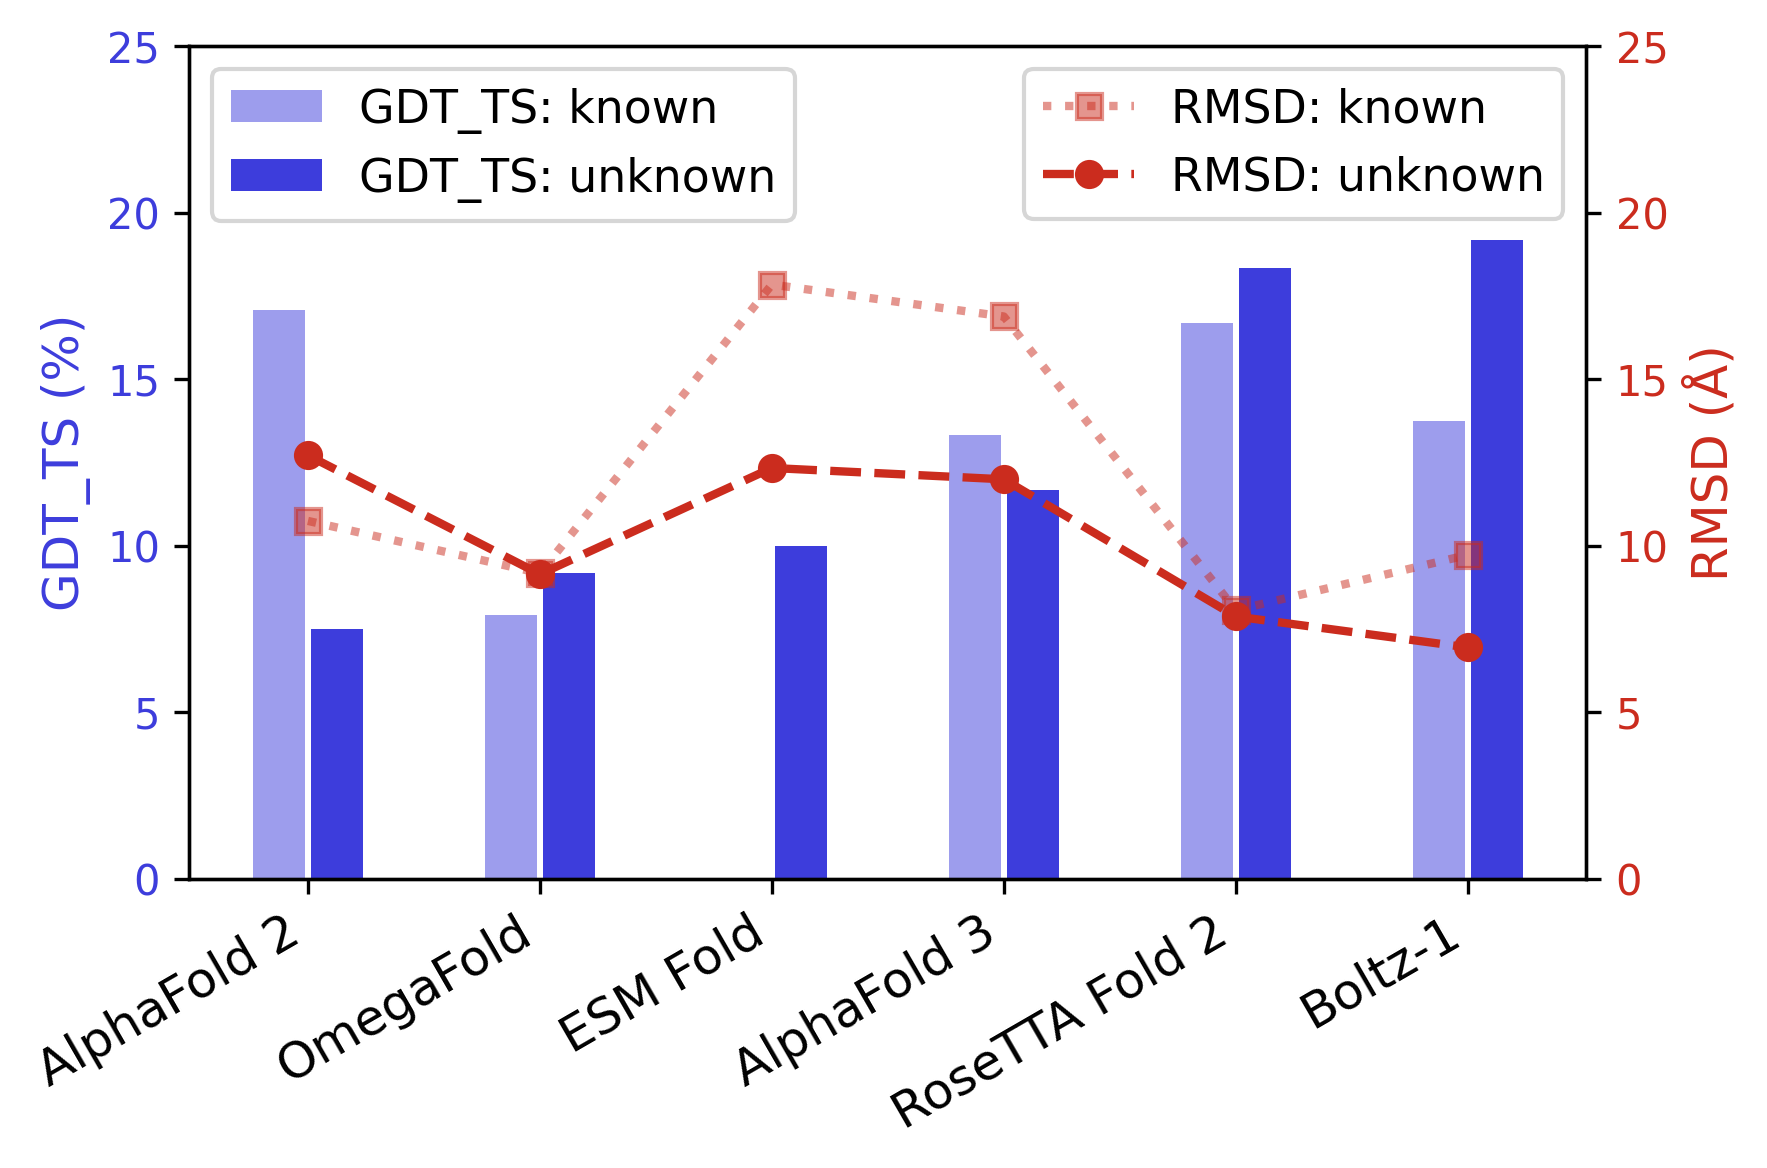
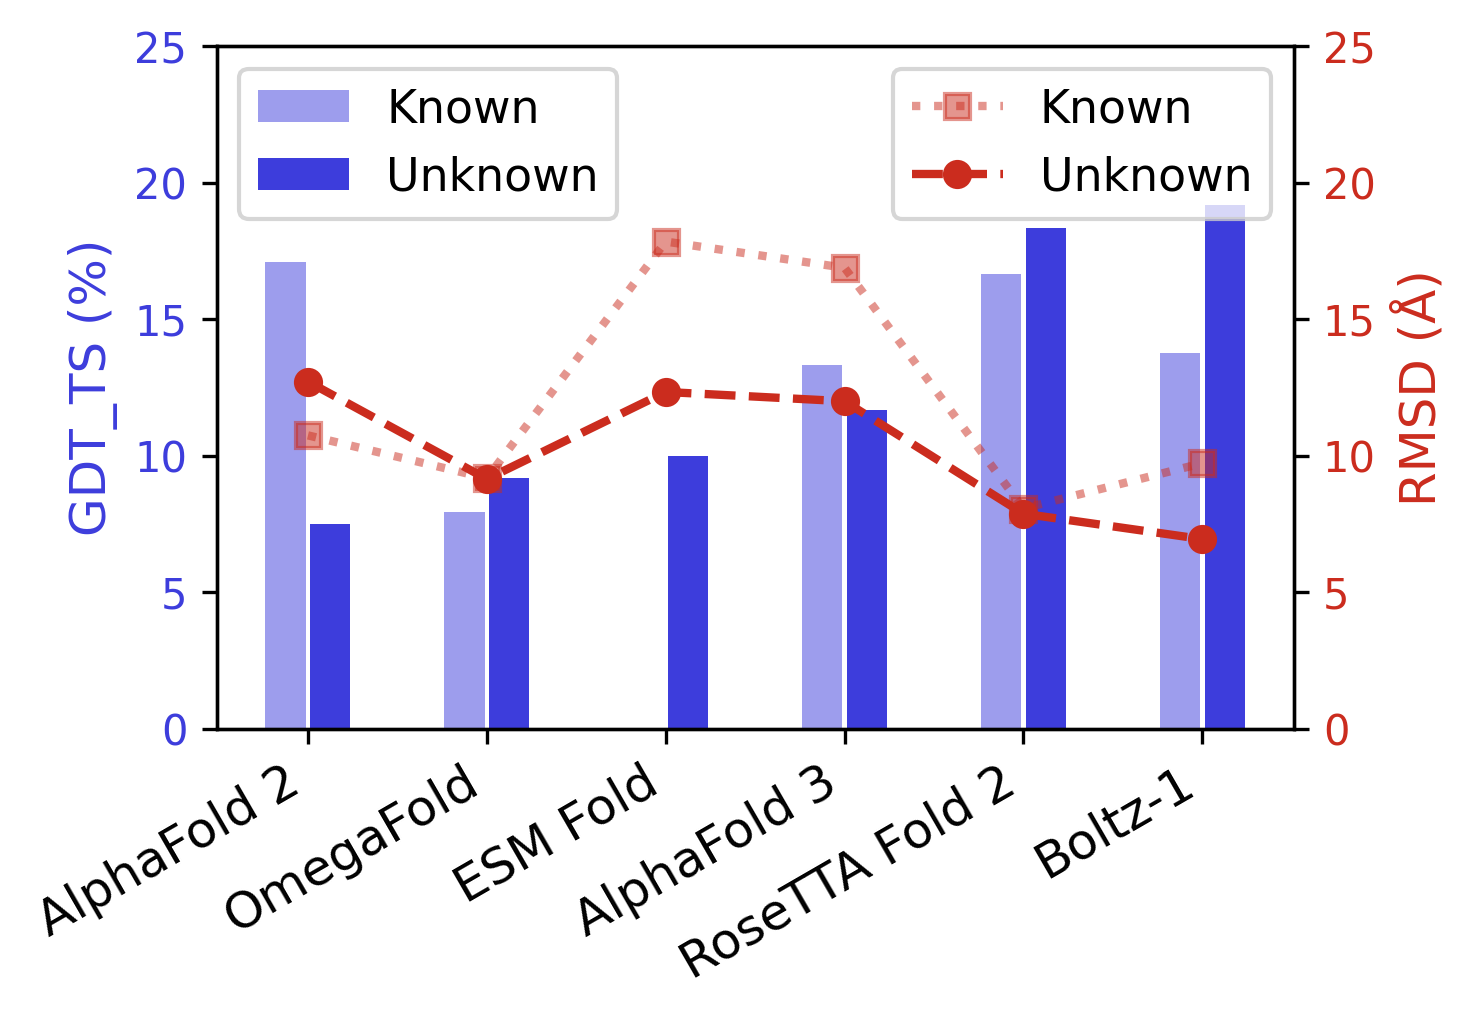
Run xp results

Changed region(s): [[0.0, 0.0305, 0.998, 0.9745], [0.5925, 0.3045, 0.6237, 0.3654], [0.3742, 0.3045, 0.4054, 0.3654]]

diff --git a/plot_results.py b/plot_results.py
@@ -43,7 +43,7 @@ methods = [model_names.get(m, m) for m in methods]
 args = parse_args()
 
 # Plotting
-fig, ax1 = plt.subplots(figsize=(6, 4))
+fig, ax1 = plt.subplots(figsize=(5, 3.5))
 
 x = np.arange(len(methods))
 width = 0.25 # Thinner bars
@@ -62,9 +62,9 @@ if args.gdt:
     rmsd_no = rmsd_no[sort_idx]
 
     # Plot GDT_TS bars
-    rects2 = ax1.bar(x - width/2, gdt_known, 0.9*width, label='GDT_TS: known', 
+    rects2 = ax1.bar(x - width/2, gdt_known, 0.9*width, label='Known', 
                      color=BAR_COLOR, alpha=0.5)
-    rects1 = ax1.bar(x + width/2, gdt_no, 0.9*width, label='GDT_TS: unknown', 
+    rects1 = ax1.bar(x + width/2, gdt_no, 0.9*width, label='Unknown', 
                      color=BAR_COLOR, alpha=1.0)
     
     # Configure first axis (GDT_TS)
@@ -97,9 +97,9 @@ if args.rmsd:
         filename = 'results_rmsd.png'
 
     ax2.plot(x, rmsd_known, color=LINE_COLOR, linestyle='dotted', linewidth=2, marker='s',
-             label='RMSD: known', alpha=0.5)
+             label='Known', alpha=0.5)
     ax2.plot(x, rmsd_no, color=LINE_COLOR, linestyle='dashed', linewidth=2, marker='o',
-             label='RMSD: unknown', alpha=1.0)
+             label='Unknown', alpha=1.0)
     ax2.set_ylabel('RMSD (Å)', color=LINE_COLOR, fontsize=12)
     ax2.tick_params(axis='y', labelcolor=LINE_COLOR)
     ax2.set_ylim(0, 25)
